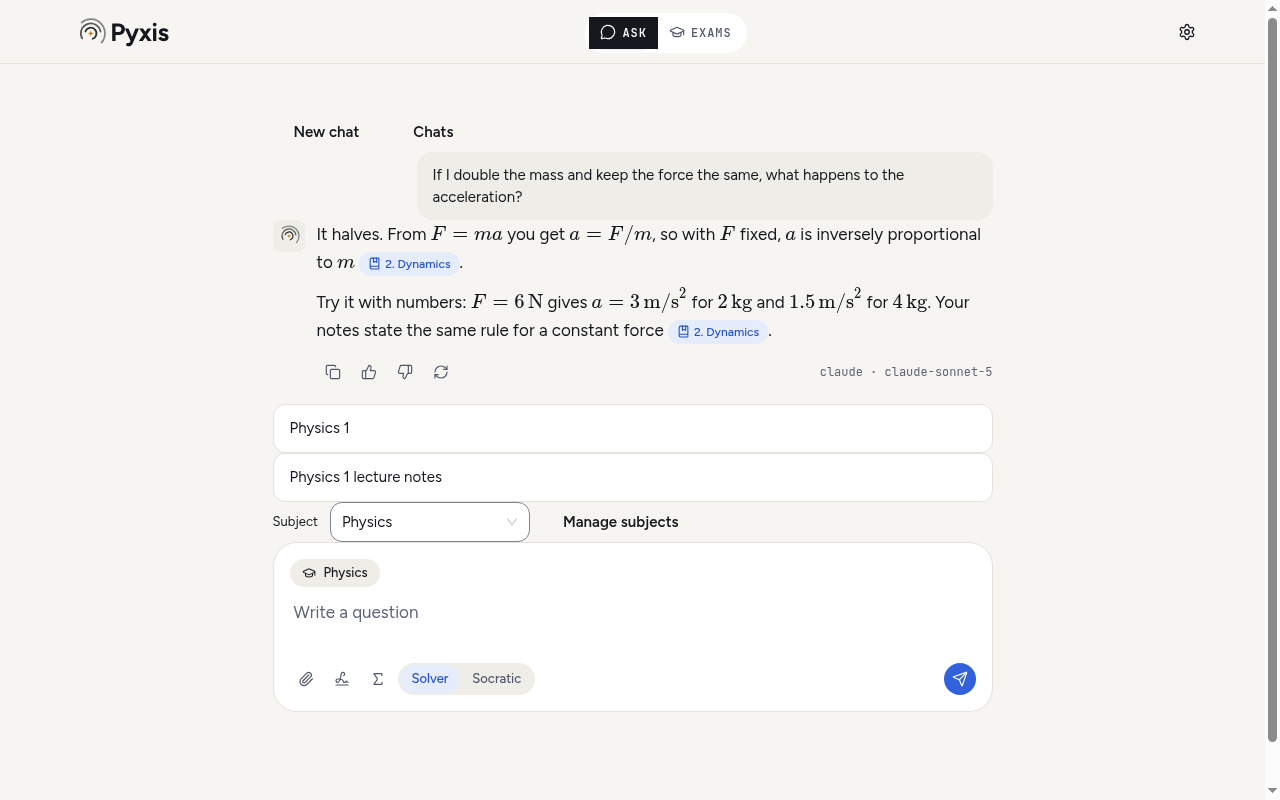
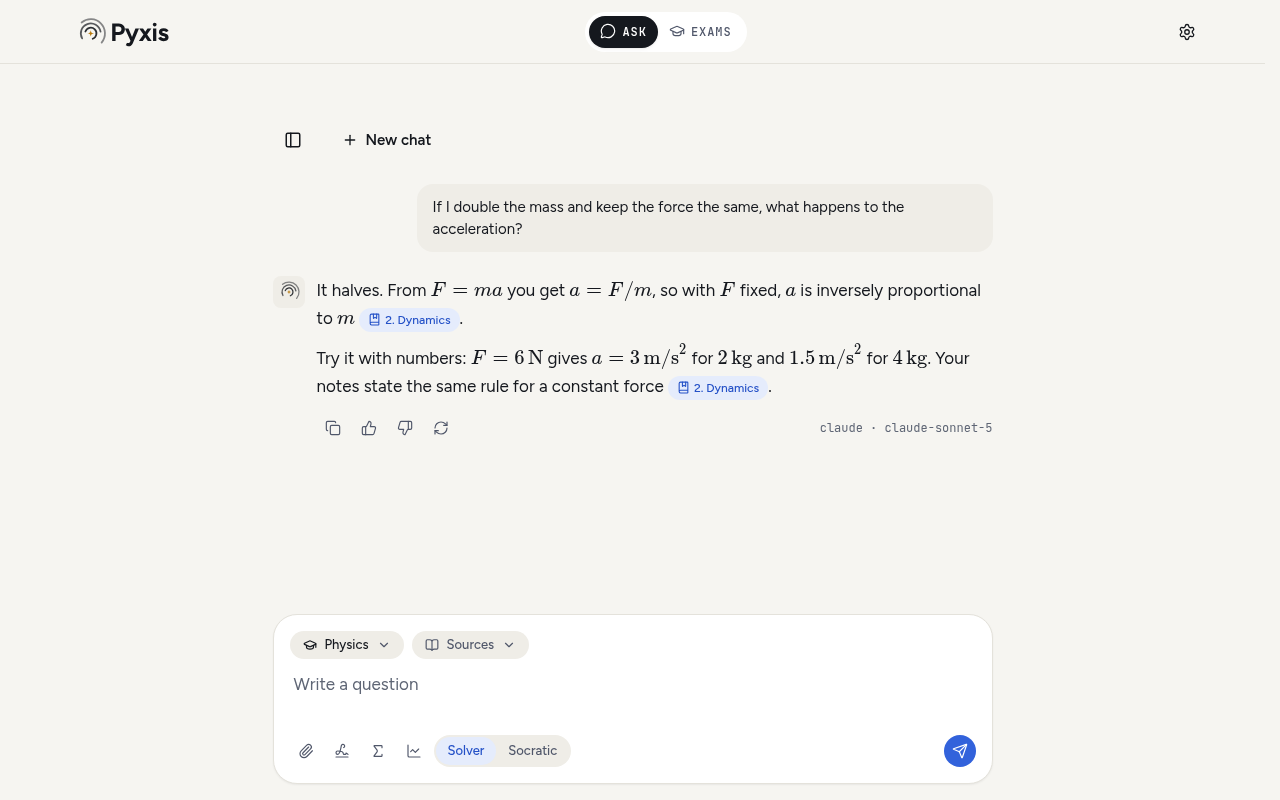
docs: update README and screenshots for 0.2.0
Retake the plan, lesson and chat screenshots on the current UI (shell
layout, docked chat composer with subject and sources chips). Describe
the four-step first setup, all six engines with automatic model choice,
the formula keyboard, and the crash-report switch that only records a
preference.

diff --git a/README.md b/README.md
@@ -32,7 +32,7 @@
 
 A fluent answer is no use if you can't check it. Pyxis answers from the material you import. Lessons and chat replies carry numbered citations that open the exact passage they came from, and each flashcard shows its source passage on the back. When Pyxis writes from general knowledge instead, it labels the text that way.
 
-Pyxis has no account, no subscription and no server of its own. The workspace is a SQLite file and a folder of blobs on your disk. You connect the model provider you already use: Claude Code, Codex, or an Anthropic or OpenAI API key. That provider may charge you for usage; Pyxis does not.
+Pyxis has no account, no subscription and no server of its own. The workspace is a SQLite file and a folder of blobs on your disk. You connect the AI tools you already use: Claude Code, Codex, Cursor Agent or Antigravity, or an Anthropic or OpenAI API key. Your provider may charge for usage. Pyxis doesn't.
 
 The app is in English and Italian, with dark and light themes.
 
@@ -46,7 +46,7 @@ The app is in English and Italian, with dark and light themes.
 
 **Close knowledge gaps.** Two wrong answers on a topic in one quiz open a gap. Pyxis asks the model what misconception the answers show, builds a drill for it, and closes the gap after two clean sessions on different days.
 
-**Ask the tutor.** The chat cites your library and can attach photos and documents. Solver mode works the problem through with you. Socratic mode holds back the answer and asks one question at a time until you get there. Pyxis also has a whiteboard, a graphing tool and a local Python sandbox with NumPy, SymPy and Matplotlib.
+**Ask the tutor.** The chat cites your library and can attach photos and documents. Solver mode works the problem through with you. Socratic mode holds back the answer and asks one question at a time until you get there. The Σ button opens a formula keyboard, which also works in quiz, practice and simulation answers. Pyxis also has a whiteboard, a graphing tool and a local Python sandbox with NumPy, SymPy and Matplotlib.
 
 **Share and back up.** Export a plan as a portable file with its lessons, cards and cited excerpts, and include your progress if you want to. Back up the whole workspace to one ZIP and restore it on another computer.
 
@@ -103,16 +103,23 @@ Pyxis checks GitHub for a new release at most once a day and links you to it. It
 
 ### First launch
 
-Choose a profile and a language, then open Settings → Engines and connect a provider:
+First setup takes four short steps, and Skip on the first screen jumps past all of them:
 
-| Engine        | How it connects                                |
-| ------------- | ---------------------------------------------- |
-| Claude Code   | Uses your installed and signed-in `claude` CLI |
-| Codex         | Uses your installed and signed-in `codex` CLI  |
-| Anthropic API | API key, encrypted with the OS key store       |
-| OpenAI API    | API key, encrypted with the OS key store       |
+1. **About you.** Name, level, school and course. They stay on your computer.
+2. **AI engines.** Pyxis looks for the tools below and tells you what it found. It sends nothing to a model at this step.
+3. **Photos and scans.** Optionally download the English and Italian OCR data (about 7 MB), so Pyxis can read photos and scans on your computer.
+4. **Privacy.** The crash-report switch. For now it only records your choice. Pyxis has no crash reporter yet.
 
-Press Test before you build your first plan. You can assign a different engine to chat, plans, lessons, grading, maps and image reading. Cursor Agent and Antigravity are listed but disabled in this version.
+| Engine        | How it connects                           |
+| ------------- | ----------------------------------------- |
+| Claude Code   | Your installed and signed-in `claude` CLI |
+| Codex         | Your installed and signed-in `codex` CLI  |
+| Cursor Agent  | Your installed and signed-in `agent` CLI  |
+| Antigravity   | Your installed and signed-in `agy` CLI    |
+| Anthropic API | API key, encrypted with the OS key store  |
+| OpenAI API    | API key, encrypted with the OS key store  |
+
+Pyxis runs the CLIs in text-only mode, so they can't use their shell, file or web tools. It picks an engine and model for each job itself. Chat and maps get a fast model, lessons a mid-range one, and plans and grading the strongest. With several CLIs signed in, it spreads the work across them. API keys come into play only when no CLI is ready, because they bill per token. To pin a different choice, open Settings → Engines. [Engines](docs/engines.md#automatic-choice) lists the defaults for each combination.
 
 ## Your data
 
@@ -125,7 +132,7 @@ These actions send data off your computer:
 - **Optional downloads.** The search model, the Python runtime and the OCR language files are fetched once, after you agree, and checked against pinned SHA-256 hashes.
 - **Update check.** Pyxis asks GitHub for the latest release tag. It sends no workspace content.
 
-Pyxis has no telemetry. Backups and exported plans can contain your course material, so treat them as private files. API keys are never written to the workspace or to backups. [SECURITY.md](SECURITY.md) lists every network request and where each file lives.
+Pyxis has no telemetry and uploads no crash reports. Backups and exported plans can contain your course material, so treat them as private files. API keys are never written to the workspace or to backups. [SECURITY.md](SECURITY.md) lists every network request and where each file lives.
 
 ## Build from source
 
